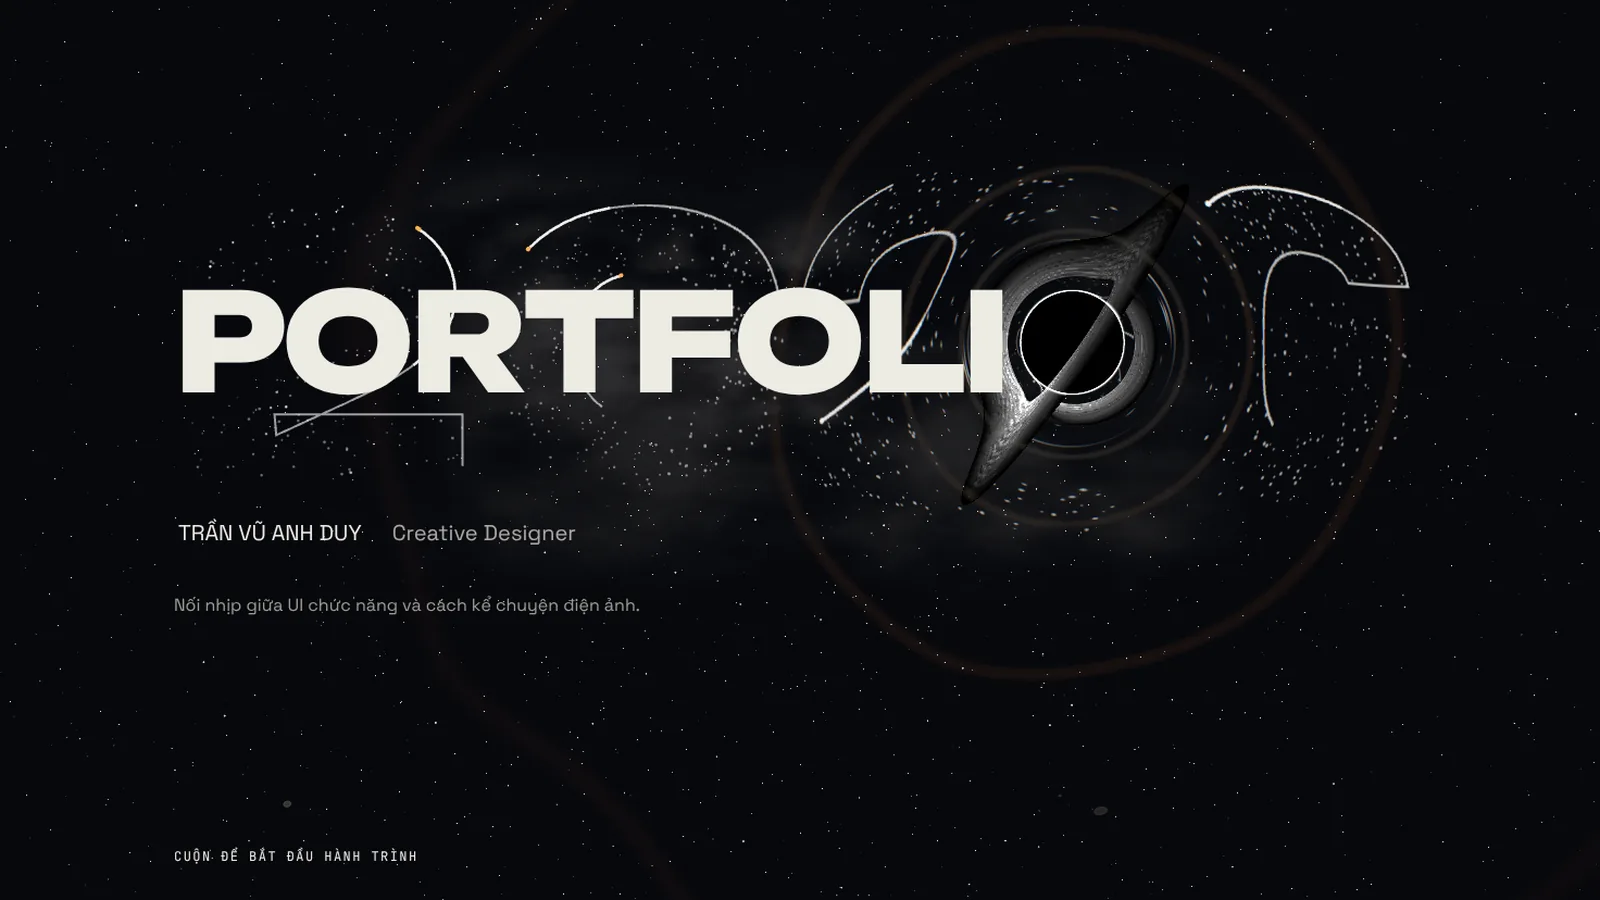
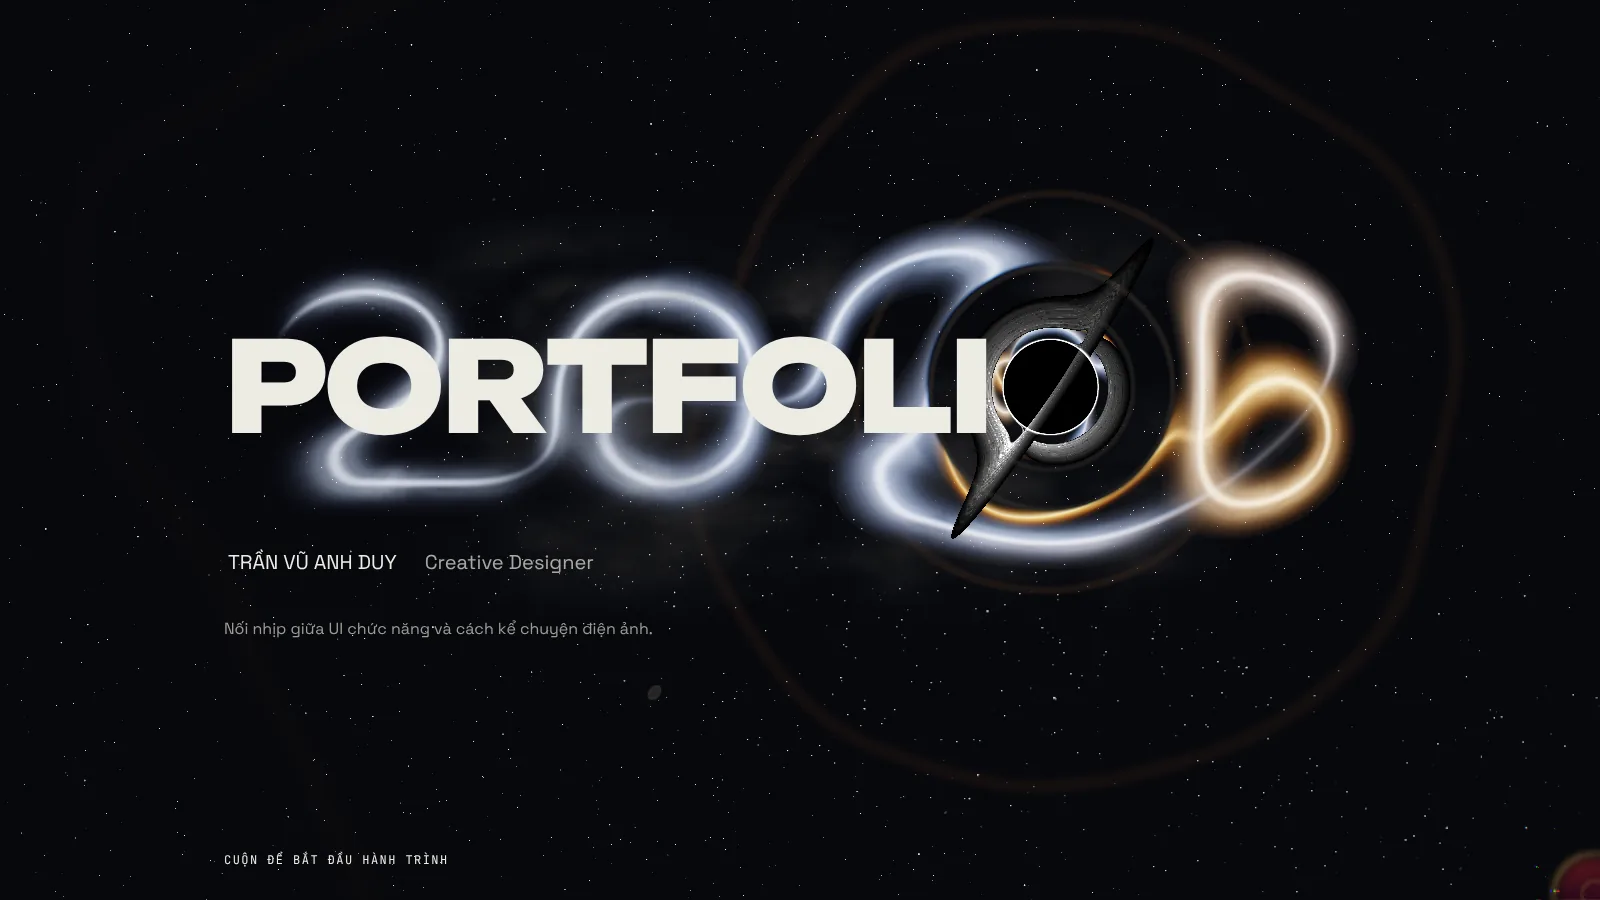
Hero year: 6 s / 7 s rhythm, keep the shown year when scrolling, drain into the hole
- 2026 holds 6 s and 2027 holds 7 s between gravitational-wave slips.
- Scrolling keeps whichever year is on screen (a morph past halfway completes)
  and the cycle resumes from that year back at rest.
- On scroll the light stream lets go from its first stroke and runs down its
  own path into the black hole, while YearDust is sampled from the stream's own
  pixels, so the dust has the exact band shape and amber heat of 2026 or 2027.
  The SVG year trails are only used without WebGL.
- Recapture public/project4.webp with the new 2026 light band.

Claude-Session: https://claude.ai/code/session_01Q2aE2z9GjJxudZEai7R7UT

diff --git a/src/3d/components/YearDust.jsx b/src/3d/components/YearDust.jsx
@@ -4,14 +4,16 @@ import { AdditiveBlending, BufferAttribute, BufferGeometry, Vector2 } from 'thre
 import { portalProgress, portalState } from '@/3d/utils/portal';
 import { useScrollStore } from '@/stores/useScrollStore';
 
-// The Hero year as stardust: sampled from the digits (star-filled interiors and their
-// contours) as the portal opens, then spiralled into the hole with the DOM portal
+// The Hero year as stardust: sampled from the live light stream exactly as it stands (2026
+// or 2027, with its own colours), or without WebGL from the digits' star-filled interiors and
+// contours, as the portal opens, then spiralled into the hole with the DOM portal
 // particles' seeded law, so scrolling back reassembles it exactly. Screen-space, CSS px.
 const PARTICLE = /* glsl */ `
   uniform float uP, uPixelRatio, uCore;
   uniform vec2 uCenter, uViewport;
   attribute vec2 aStart;
   attribute vec3 aSeed;
+  attribute float aHeat;
   attribute float aTail;
   varying vec3 vColor;
   varying float vAlpha;
@@ -41,7 +43,8 @@ const PARTICLE = /* glsl */ `
     // Swallowed at the horizon of the growing shadow.
     float horizon = smoothstep(uCore * 0.95, uCore * 1.25, length(head - uCenter));
     float heat = t * t;
-    vColor = mix(vec3(0.82, 0.88, 1.0), mix(vec3(1.0, 0.86, 0.66), vec3(1.0, 0.62, 0.32), smoothstep(0.55, 1.0, t)), smoothstep(0.15, 0.7, t))
+    vec3 cold = mix(vec3(0.82, 0.88, 1.0), vec3(1.0, 0.74, 0.44), aHeat);
+    vColor = mix(cold, mix(vec3(1.0, 0.86, 0.66), vec3(1.0, 0.62, 0.32), smoothstep(0.55, 1.0, t)), smoothstep(0.15, 0.7, t))
       * (aSeed.y * (1.0 + 2.2 * heat));
     vAlpha = smooth01(0.0, 0.05, uP) * (1.0 - smooth01(0.34, 0.435, uP)) * horizon * (1.0 - 0.4 * t) * (aTail > 0.5 ? 0.0 : 1.0);
   }
@@ -70,7 +73,10 @@ const MASK = 160, OUTLINE = 480;
 // year is not laid out). Glyphs are interleaved, so any prefix of the buffer covers all
 // four digits evenly; each is rasterized once into a coarse mask and flattened into a
 // polyline, so rejection sampling stays cheap on the first portal frame.
-function sampleYear(starts, seeds, count) {
+function sampleYear(starts, seeds, heats, count) {
+  const stream = document.querySelector('[data-hero-year][data-year-gl="true"] [data-year-stream][data-ready="true"]');
+  if (stream) return sampleStream(stream, starts, seeds, heats, count);
+  heats.fill(0);
   const canvas = document.createElement('canvas');
   canvas.width = canvas.height = MASK;
   const context = canvas.getContext('2d', { willReadFrequently: true });
@@ -118,6 +124,40 @@ function sampleYear(starts, seeds, count) {
   return 0;
 }
 
+// The stream's own pixels: dust lands where its light is, as bright as the light and as warm.
+function sampleStream(stream, starts, seeds, heats, count) {
+  const rect = stream.getBoundingClientRect();
+  if (!rect.width || !rect.height) return 0;
+  const scale = Math.min(1, 480 / stream.width), width = Math.max(1, Math.round(stream.width * scale)), height = Math.max(1, Math.round(stream.height * scale));
+  const canvas = document.createElement('canvas');
+  canvas.width = width; canvas.height = height;
+  const context = canvas.getContext('2d', { willReadFrequently: true });
+  if (!context) return 0;
+  context.drawImage(stream, 0, 0, width, height);
+  const pixels = context.getImageData(0, 0, width, height).data;
+  let lit = 0;
+  for (let i = 3; i < pixels.length; i += 4) lit += pixels[i] / 255;
+  if (lit < 1) return 0;
+  // About one grain per 2.5 px² of light: the band is thin, so it needs denser dust than a fill.
+  const total = Math.min(count, Math.max(2000, Math.round(lit * (rect.width / width) * (rect.height / height) / 2.5)));
+  let index = 0;
+  for (let tries = 0; index < total && tries < total * 40; tries++) {
+    const n = index * 7.31 + tries * 0.137;
+    const u = hash(n + 1.1), v = hash(n + 2.2), at = (Math.floor(v * height) * width + Math.floor(u * width)) * 4;
+    const alpha = pixels[at + 3] / 255;
+    if (alpha < 0.08 || hash(n + 3.3) > alpha) continue;
+    starts[index * 2] = rect.left + rect.width * u;
+    starts[index * 2 + 1] = rect.top + rect.height * v;
+    seeds[index * 3] = hash(n + 7.7);
+    seeds[index * 3 + 1] = 0.25 + 0.75 * alpha * (0.6 + 0.4 * hash(n + 6.6));
+    seeds[index * 3 + 2] = hash(n + 8.8) ** 3;
+    // Amber where the stream has heated, starlight white elsewhere.
+    heats[index] = Math.min(1, Math.max(0, (pixels[at] - pixels[at + 2]) / Math.max(1, pixels[at]) * 2.2));
+    index++;
+  }
+  return index;
+}
+
 export function YearDust({ quality = 'high', reduced = false }) {
   const dots = useRef(null);
   const streaks = useRef(null);
@@ -132,11 +172,13 @@ export function YearDust({ quality = 'high', reduced = false }) {
     pointGeometry.setAttribute('position', new BufferAttribute(new Float32Array(count * 3), 3));
     pointGeometry.setAttribute('aStart', new BufferAttribute(starts, 2));
     pointGeometry.setAttribute('aSeed', new BufferAttribute(seeds, 3));
+    pointGeometry.setAttribute('aHeat', new BufferAttribute(new Float32Array(count), 1));
     pointGeometry.setAttribute('aTail', new BufferAttribute(new Float32Array(count), 1));
     const lineGeometry = new BufferGeometry();
     lineGeometry.setAttribute('position', new BufferAttribute(new Float32Array(count * 6), 3));
     lineGeometry.setAttribute('aStart', new BufferAttribute(lineStarts, 2));
     lineGeometry.setAttribute('aSeed', new BufferAttribute(lineSeeds, 3));
+    lineGeometry.setAttribute('aHeat', new BufferAttribute(new Float32Array(count * 2), 1));
     lineGeometry.setAttribute('aTail', new BufferAttribute(tails, 1));
     return { pointGeometry, lineGeometry };
   }, [count]);
@@ -157,7 +199,7 @@ export function YearDust({ quality = 'high', reduced = false }) {
     const key = `${width}x${height}`;
     if (sampled.current !== key) {
       const point = dots.current.geometry.attributes, line = streaks.current.geometry.attributes;
-      const total = sampleYear(point.aStart.array, point.aSeed.array, count);
+      const total = sampleYear(point.aStart.array, point.aSeed.array, point.aHeat.array, count);
       if (!total) { dots.current.visible = streaks.current.visible = false; return; }
       sampled.current = key;
       dots.current.geometry.setDrawRange(0, total);
@@ -166,9 +208,10 @@ export function YearDust({ quality = 'high', reduced = false }) {
         for (let end = 0; end < 2; end++) {
           line.aStart.array.set(point.aStart.array.subarray(i * 2, i * 2 + 2), (i * 2 + end) * 2);
           line.aSeed.array.set(point.aSeed.array.subarray(i * 3, i * 3 + 3), (i * 2 + end) * 3);
+          line.aHeat.array[i * 2 + end] = point.aHeat.array[i];
         }
       }
-      for (const attributes of [point, line]) attributes.aStart.needsUpdate = attributes.aSeed.needsUpdate = true;
+      for (const attributes of [point, line]) attributes.aStart.needsUpdate = attributes.aSeed.needsUpdate = attributes.aHeat.needsUpdate = true;
     }
     portalState(p, phase.current);
     const anchor = state.storyAnchor;

diff --git a/src/components/effects/PortalHeading.jsx b/src/components/effects/PortalHeading.jsx
@@ -4,7 +4,7 @@ import { gsap, useGSAPSetup } from '@/hooks/useGSAPSetup';
 import { useScrollStore } from '@/stores/useScrollStore';
 import { useLoadingStore } from '@/stores/useLoadingStore';
 import { useReducedMotion } from '@/hooks/useReducedMotion';
-import { portalProgress, portalState } from '@/3d/utils/portal';
+import { portalProgress, portalSmooth, portalState } from '@/3d/utils/portal';
 import { createPortalTrails } from '@/components/effects/portalTrails';
 import { createYearStream } from '@/components/effects/yearStream';
 import '@/styles/hero.css';
@@ -45,10 +45,11 @@ export function PortalHeading({ label, name, year, role, visible = true, opening
     const dropStream = () => { stream?.dispose(); stream = null; delete yearLayer.dataset.yearGl; };
     streamCanvas.addEventListener('streamlost', dropStream);
     if (stream) yearLayer.dataset.yearGl = 'true';
-    // The trails carry the digits into the portal; the live stream hands over to them.
+    // The live stream drains into the hole as YearDust rises from its light; without it the
+    // trails carry the SVG digits in instead.
     const streamOpacity = gsap.quickSetter(streamCanvas, 'opacity');
     const sources = [
-      ...stage.querySelectorAll('[data-portal-year-glyph]'), ...chars.slice(0, -1),
+      ...(stream ? [] : stage.querySelectorAll('[data-portal-year-glyph]')), ...chars.slice(0, -1),
       ...stage.querySelectorAll('[data-hero-decode], [data-hero-role], [data-hero-layer="intro"], [data-hero-layer="indicator"]'),
     ];
     const trails = !frozen ? createPortalTrails(sources.map(node => ({ node,
@@ -61,7 +62,8 @@ export function PortalHeading({ label, name, year, role, visible = true, opening
       draw();
     };
     // A gravitational wave rolls through the last digit and the stream re-forms as the next
-    // year (6 → 7), then back. Without WebGL the spine simply swaps under the same timing.
+    // year (6 → 7), then back: 2026 holds for 6 s, 2027 for 7 s. Without WebGL the spine
+    // simply swaps under the same timing.
     const alt = yearLayer.querySelector('[data-year-alt]');
     const own = alt?.parentNode.querySelector('.hero-year-stream');
     const wave = { mix: 0, quake: 0 };
@@ -75,21 +77,27 @@ export function PortalHeading({ label, name, year, role, visible = true, opening
       stream?.shape(0, wave.quake);
     };
     const shapeStream = () => stream?.shape(wave.mix, wave.quake);
-    const flash = alt && !frozen ? gsap.timeline({ id: 'hero-year-glitch', paused: true, repeat: -1 }) : null;
+    const [toNext, toOwn] = [5, 12];
+    const flash = alt && !frozen ? gsap.timeline({ id: 'hero-year-glitch', paused: true, repeat: -1, delay: 0.5 }) : null;
     if (flash) {
-      for (const start of [11, 17.8]) {
+      for (const start of [toNext, toOwn]) {
         flash.fromTo(wave, { quake: 0 }, { quake: 1, duration: 0.16, ease: 'power2.in', onUpdate: shapeStream }, start)
           .fromTo(wave, { mix: 0 }, { mix: 1, duration: 0.42, ease: 'power3.inOut', onUpdate: shapeStream }, start + 0.08)
           .call(slip, [], start + 0.5)
           .to(wave, { quake: 0, duration: 0.6, ease: 'expo.out', onUpdate: shapeStream }, start + 0.42);
       }
-      flash.to({}, { duration: 0.6 });
+      flash.set({}, {}, toOwn + 1.1);
     }
+    // Scrolling away keeps whichever year is showing: a morph past halfway completes, an
+    // earlier one falls back, and the wave calms at once so the stream drains cleanly.
     const settle = () => {
-      flash?.pause(0);
+      flash?.pause();
+      const complete = wave.mix >= 0.5;
       Object.assign(wave, { mix: 0, quake: 0 });
-      if (slipped) slip(); else shapeStream();
+      if (complete) slip(); else shapeStream();
     };
+    // Back at rest the cycle resumes from the year on screen.
+    const resume = () => flash && (slipped ? flash.play(toNext + 1.1) : flash.restart(true));
     const nameNode = stage.querySelector('[data-hero-name]');
     const decoded = stage.querySelector('[data-hero-decode]');
     const decode = !frozen ? gsap.timeline({ id: 'hero-name-decode', paused: true }).to(decoded, {
@@ -102,7 +110,8 @@ export function PortalHeading({ label, name, year, role, visible = true, opening
       const p = portalProgress(state.storyChapter, state.chapterProgress, frozen);
       portalState(p, phase);
       opacity(visible && p < 0.44 ? opening?.current.active ? opening.current.reveal : 1 : 0);
-      streamOpacity(Math.max(0, 1 - p / 0.04));
+      stream?.drain(portalSmooth(0, 0.07, p));
+      streamOpacity(1 - portalSmooth(0.025, 0.075, p));
       if (p > 0 && running) { decode?.pause(0); decoded.textContent = name; }
       trails?.draw(p, state.storyAnchor, visible);
       const hidden = !visible || phase.textOpacity === 0;
@@ -117,10 +126,11 @@ export function PortalHeading({ label, name, year, role, visible = true, opening
       if (idle) {
         stream?.play();
         decode?.restart();
-        flash?.restart();
+        resume();
       } else {
         settle();
         stream?.pause();
+        stream?.render();
         decode?.pause(0);
         decoded.textContent = name;
         if (document.activeElement === nameNode) nameNode.blur();
@@ -148,8 +158,8 @@ export function PortalHeading({ label, name, year, role, visible = true, opening
       document.fonts?.removeEventListener('loadingdone', measure);
       nameNode.removeEventListener('pointerenter', replay);
       nameNode.removeEventListener('focus', replay);
-      settle();
       flash?.kill();
+      if (slipped) slip();
       streamCanvas.removeEventListener('streamlost', dropStream);
       dropStream();
       decoded.textContent = name;

diff --git a/src/components/effects/yearStream.js b/src/components/effects/yearStream.js
@@ -20,7 +20,7 @@ const RIBBON_FRAG = `#version 300 es
 precision highp float;
 in vec3 vStream;
 out vec4 o;
-uniform float uTime, uFs, uLength, uDirect;
+uniform float uTime, uFs, uLength, uDirect, uDrain;
 // The hole's shadow (canvas px, GL origin) hides the stream where it falls behind it.
 uniform vec3 uHole;
 float hash(vec2 p) { p = fract(p * vec2(123.34, 456.21)); p += dot(p, p + 45.32); return fract(p.x * p.y); }
@@ -44,6 +44,9 @@ void main() {
   float light = (body * (0.3 + 0.7 * clump) * flow * 0.85 + spine * 0.8) * weight * (1.0 + heat * 0.6);
   float glow = exp(-d / (fs * 0.4)) * 0.07 * weight * (1.0 - smoothstep(fs * 0.16, fs * 0.32, d));
   vec3 rgb = tint * (light + glow);
+  // Swallowed: the stream lets go from its first stroke and runs down its own path into the hole.
+  float gone = uDrain * 1.15;
+  rgb *= smoothstep(gone - 0.12, gone, along) * (1.0 + uDrain * heat);
   rgb *= smoothstep(0.0, 0.04, along) * smoothstep(uHole.z * 0.95, uHole.z * 1.15, length(gl_FragCoord.xy - uHole.xy));
   // Without a float target each strand is tone mapped on its own and added on the canvas.
   if (uDirect > 0.5) { rgb = tonemap(rgb); o = vec4(rgb, max(rgb.r, max(rgb.g, rgb.b))); }
@@ -140,7 +143,7 @@ export function createYearStream(canvas, svg, { frozen = false } = {}) {
   let vertexCount = 0;
 
   let layout = null, raf = 0, playing = false, lost = false;
-  const shape = { mix: 0, quake: 0 };
+  const shape = { mix: 0, quake: 0, drain: 0 };
   const start = performance.now();
   const onLost = event => { event.preventDefault(); lost = true; canvas.dataset.ready = 'false'; canvas.dispatchEvent(new Event('streamlost')); };
   canvas.addEventListener('webglcontextlost', onLost);
@@ -319,7 +322,8 @@ export function createYearStream(canvas, svg, { frozen = false } = {}) {
     gl.blendFunc(gl.ONE, gl.ONE);
     gl.useProgram(ribbon.program);
     gl.uniform2f(ribbon.uniforms.uRes, canvas.width, canvas.height);
-    gl.uniform1f(ribbon.uniforms.uTime, frozen ? 6.5 : (now - start) / 1000);
+    gl.uniform1f(ribbon.uniforms.uTime, (frozen ? 6.5 : (now - start) / 1000) + shape.drain * 5);
+    gl.uniform1f(ribbon.uniforms.uDrain, shape.drain);
     gl.uniform1f(ribbon.uniforms.uFs, layout.fs);
     gl.uniform1f(ribbon.uniforms.uLength, layout.length);
     gl.uniform1f(ribbon.uniforms.uDirect, direct ? 1 : 0);
@@ -350,6 +354,12 @@ export function createYearStream(canvas, svg, { frozen = false } = {}) {
     resize,
     render: () => render(),
     // mix: 0 = the digit's own spine, 1 = its alternate; quake: the wave's strength.
+    // 0 = idle, 1 = the whole stream has fallen into the hole.
+    drain(amount) {
+      if (amount === shape.drain) return;
+      shape.drain = amount;
+      if (!playing) render();
+    },
     shape(mix, quake) {
       const rebuild = mix !== shape.mix;
       Object.assign(shape, { mix, quake });
